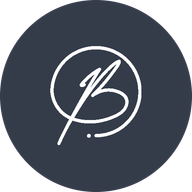
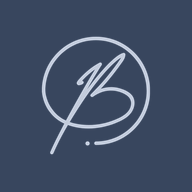
Nieuwe functies toegevoegd

diff --git a/scripts/generate-pwa-icons.js b/scripts/generate-pwa-icons.js
@@ -1,17 +1,18 @@
 #!/usr/bin/env node
 /**
- * Generates PWA icons (192x192, 512x512) from public/vibetracker-logo.png.
+ * Generates PWA icons (192x192, 512x512) from Benji logo.
  * Run: node scripts/generate-pwa-icons.js
  * Requires: npm install sharp --save-dev
  */
 const path = require("path");
 const fs = require("fs");
 
-const inputPath = path.join(__dirname, "..", "public", "vibetracker-logo.png");
+const inputPath = path.join(__dirname, "..", "public", "images", "benji-logo-2.png");
 const outDir = path.join(__dirname, "..", "public");
+const BG_COLOR = "#38465e"; // primary-900
 
 if (!fs.existsSync(inputPath)) {
-  console.warn("vibetracker-logo.png not found; skipping icon generation.");
+  console.warn("images/benji-logo-2.png not found; skipping icon generation.");
   process.exit(0);
 }
 
@@ -26,10 +27,26 @@ try {
 async function run() {
   const sizes = [192, 512];
   for (const size of sizes) {
-    await sharp(inputPath)
-      .resize(size, size)
+    const padding = Math.round(size * 0.15);
+    const logoSize = size - padding * 2;
+
+    const logo = await sharp(inputPath)
+      .resize(logoSize, logoSize)
+      .png()
+      .toBuffer();
+
+    await sharp({
+      create: {
+        width: size,
+        height: size,
+        channels: 4,
+        background: BG_COLOR,
+      },
+    })
+      .composite([{ input: logo, top: padding, left: padding }])
       .png()
       .toFile(path.join(outDir, `icon-${size}.png`));
+
     console.log(`Created public/icon-${size}.png`);
   }
 }

diff --git a/app/manifest.ts b/app/manifest.ts
@@ -12,21 +12,15 @@ export default function manifest(): MetadataRoute.Manifest {
     orientation: "portrait-primary",
     icons: [
       {
-        src: "/icon.svg",
-        sizes: "any",
-        type: "image/svg+xml",
-        purpose: "any",
-      },
-      {
-        src: "/icon.svg",
+        src: "/icon-192.png",
         sizes: "192x192",
-        type: "image/svg+xml",
+        type: "image/png",
         purpose: "any",
       },
       {
-        src: "/icon.svg",
+        src: "/icon-512.png",
         sizes: "512x512",
-        type: "image/svg+xml",
+        type: "image/png",
         purpose: "any",
       },
     ],

diff --git a/app/layout.tsx b/app/layout.tsx
@@ -11,8 +11,11 @@ export const metadata: Metadata = {
   description: "Rustige gesprekspartner bij rouw en verlies",
   manifest: "/manifest.webmanifest",
   icons: {
-    icon: "/icon.svg",
-    apple: "/icon.svg",
+    icon: [
+      { url: "/icon-192.png", sizes: "192x192", type: "image/png" },
+      { url: "/icon-512.png", sizes: "512x512", type: "image/png" },
+    ],
+    apple: "/icon-192.png",
   },
   appleWebApp: {
     capable: true,
